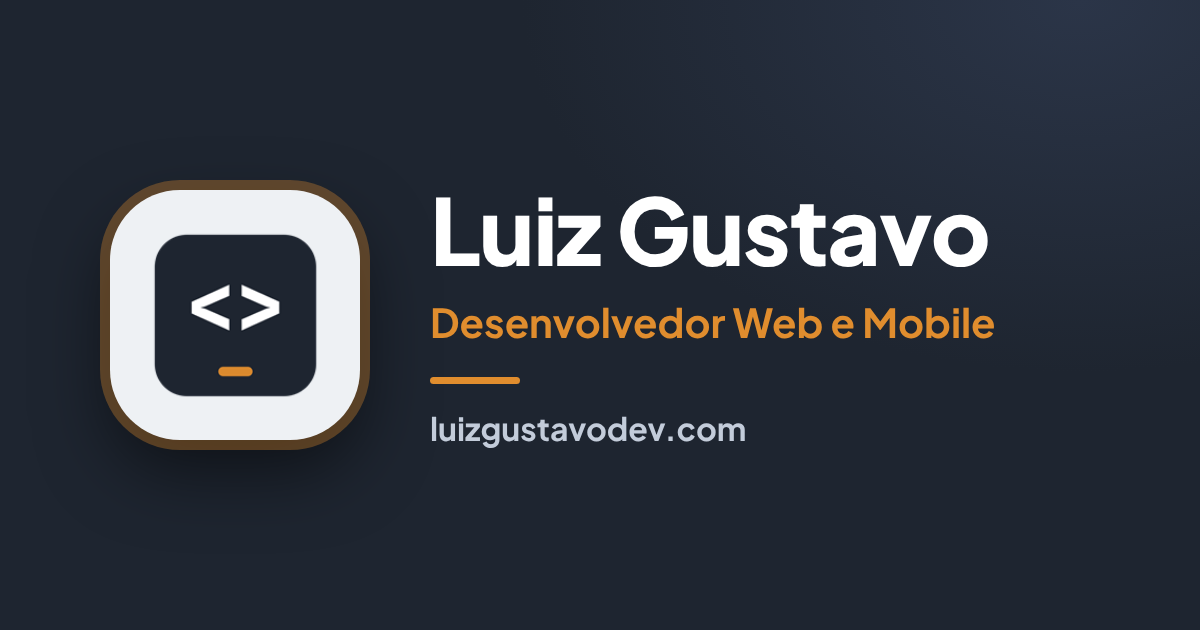
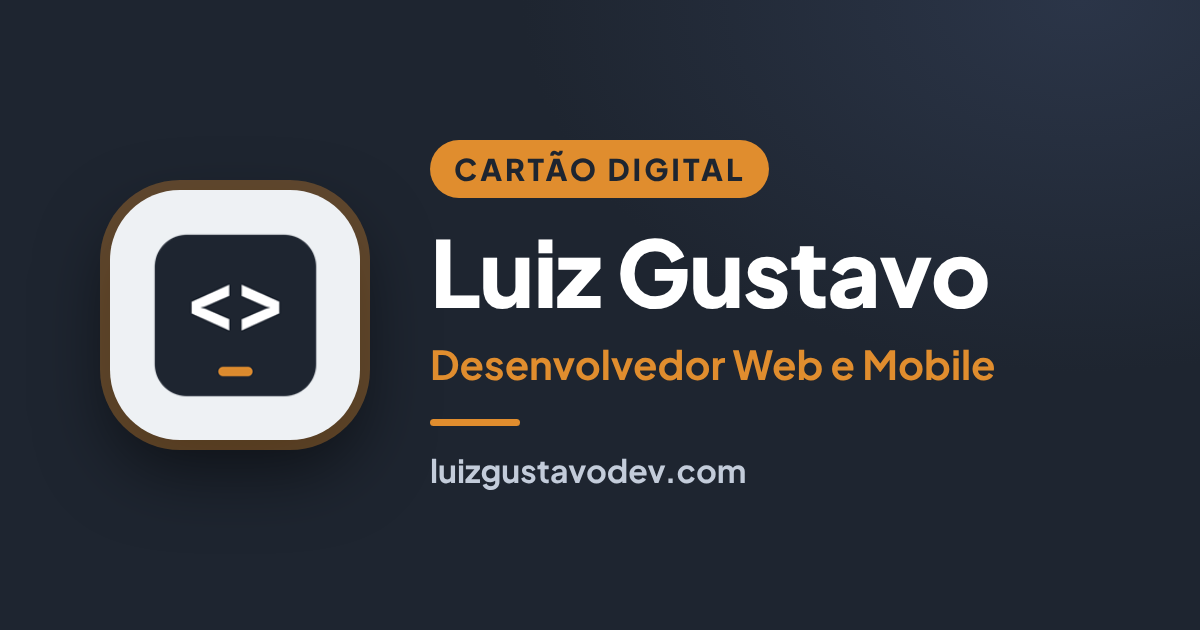
feat: alteração cartao.html?v=2

Changed region(s): [[0.3392, 0.2111, 0.8325, 0.6333], [0.3392, 0.6635, 0.6167, 0.7841]]

diff --git a/cartao.html b/cartao.html
@@ -1,11 +1,11 @@
 <!DOCTYPE html>
 <html lang="pt-BR"><head><meta charset="utf-8">
 <meta name="viewport" content="width=device-width,initial-scale=1,viewport-fit=cover">
-<title>Luiz Gustavo | Desenvolvedor Web e Mobile</title>
-<meta name="description" content="Sites e apps mobile para vender e operar melhor.">
+<title>Cartão digital | Luiz Gustavo, Desenvolvedor Web e Mobile</title>
+<meta name="description" content="Fale comigo pelo WhatsApp, e-mail ou redes sociais. Sites e apps mobile para vender e operar melhor.">
 <meta name="theme-color" content="#1E2530">
-<meta property="og:title" content="Luiz Gustavo | Desenvolvedor Web e Mobile">
-<meta property="og:description" content="Sites e apps mobile para vender e operar melhor.">
+<meta property="og:title" content="Cartão digital | Luiz Gustavo, Desenvolvedor Web e Mobile">
+<meta property="og:description" content="Fale comigo pelo WhatsApp, e-mail ou redes sociais. Sites e apps mobile para vender e operar melhor.">
 <link rel="canonical" href="https://luizgustavodev.com/cartao.html">
 <meta property="og:locale" content="pt_BR">
 <meta property="og:type" content="profile">
@@ -17,7 +17,7 @@
 <meta property="og:image:height" content="630">
 <meta property="og:image:alt" content="Cartão digital de Luiz Gustavo, Desenvolvedor Web e Mobile">
 <meta name="twitter:card" content="summary_large_image">
-<meta name="twitter:title" content="Luiz Gustavo | Desenvolvedor Web e Mobile">
+<meta name="twitter:title" content="Cartão digital | Luiz Gustavo, Desenvolvedor Web e Mobile">
 <meta name="twitter:image" content="https://luizgustavodev.com/img/og-cartao.png">
[1 lines of base64/hex data omitted]
 <style>
